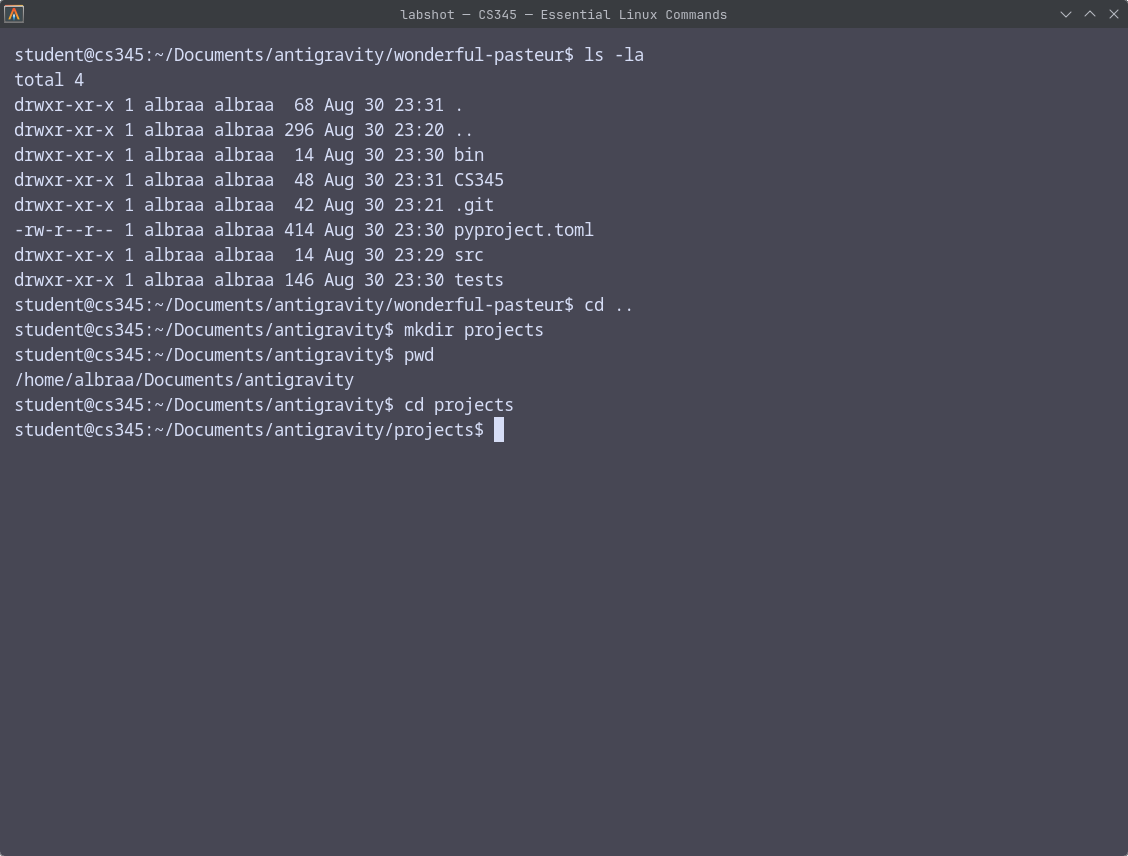
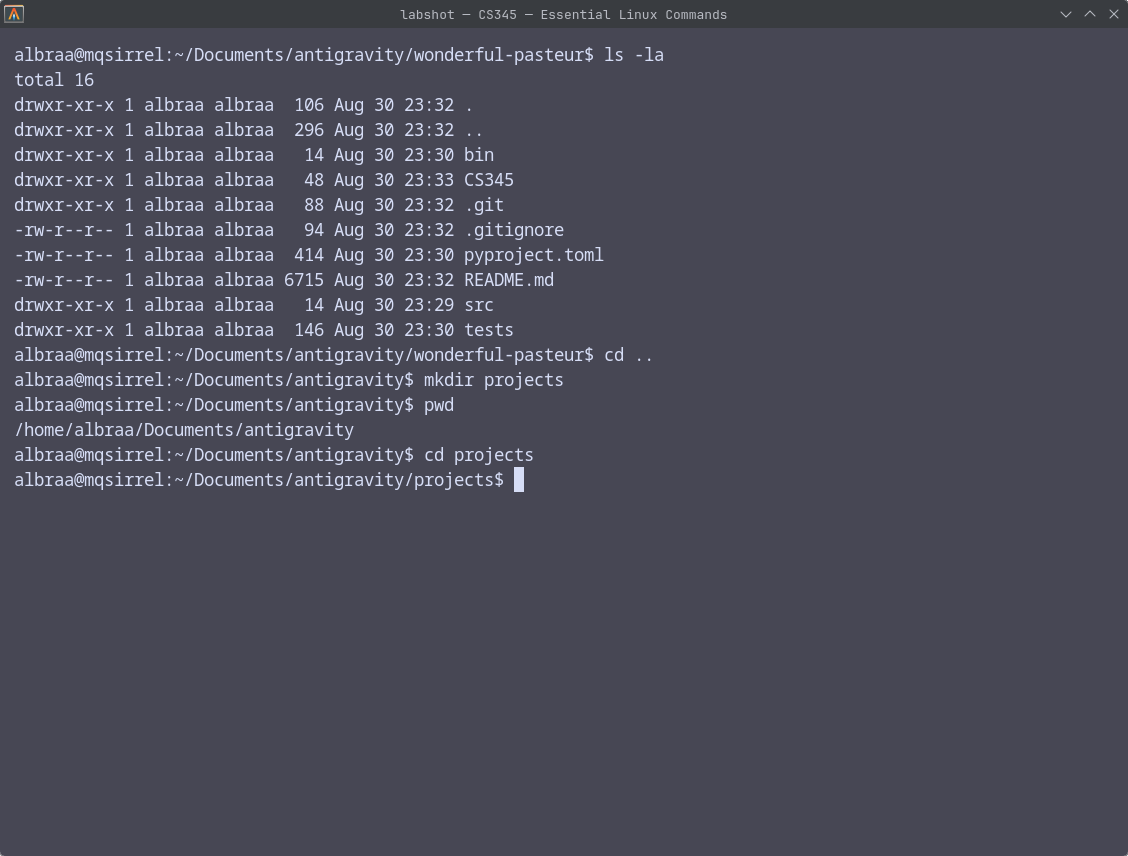
fix: restore natural user prompt (albraa@<hostname>) in terminal recordings

Changed region(s): [[0.0, 0.0607, 0.5895, 0.5771]]

diff --git a/src/labshot/terminal.py b/src/labshot/terminal.py
@@ -87,6 +87,7 @@ style = {{ shape = "Block", blinking = "Off" }}
         env["LABSHOT_SOCK"] = str(sock_path)
         env["LABSHOT_FIFO"] = str(fifo_path)
         env["LABSHOT_TITLE"] = self.window_title
+        env["LABSHOT_PS1"] = self.config.prompt_template
 
         python_exec = shutil.which("python3") or "python3"
 
@@ -139,7 +140,6 @@ style = {{ shape = "Block", blinking = "Off" }}
 
     def activate_window(self) -> None:
         """Activate/raise the terminal window using compositor or window manager methods."""
-        # Method 1: KDE Plasma Wayland KWin Scripting via qdbus6
         if shutil.which("qdbus6"):
             kwin_js = f"""
             var windows = workspace.stackingOrder;
@@ -155,7 +155,7 @@ style = {{ shape = "Block", blinking = "Off" }}
             try:
                 with open(script_file, "w", encoding="utf-8") as f:
                     f.write(kwin_js)
-                load_res = subprocess.run(
+                subprocess.run(
                     ["qdbus6", "org.kde.KWin", "/Scripting", "org.kde.kwin.Scripting.loadDeclarativeScript", str(script_file), "labshot_focus"],
                     capture_output=True, text=True, timeout=2
                 )
@@ -166,7 +166,6 @@ style = {{ shape = "Block", blinking = "Off" }}
             except Exception:
                 pass
 
-        # Method 2: xdotool / wmctrl on X11 / XWayland
         if shutil.which("xdotool"):
             try:
                 subprocess.run(["xdotool", "search", "--name", "labshot", "windowactivate"], capture_output=True, timeout=2)

diff --git a/src/labshot/config.py b/src/labshot/config.py
@@ -40,7 +40,7 @@ class LabConfig:
     """General configuration for the lab recording session."""
     default_lab_name: str = "Essential Linux Commands"
     base_dir: Path = field(default_factory=lambda: Path.cwd() / "CS345")
-    prompt_template: str = r"student@cs345:\w$ "
+    prompt_template: str = r"\u@\h:\w\$ "
     default_timeout_seconds: float = 30.0
     post_command_delay: float = 0.12  # Wait for GPU/compositor render buffer
     terminal_config: TerminalConfig = field(default_factory=TerminalConfig)

diff --git a/src/labshot/worker.py b/src/labshot/worker.py
@@ -53,7 +53,7 @@ def main():
 
     env = os.environ.copy()
     env["PROMPT_COMMAND"] = f"echo $? $PWD > {fifo_path}"
-    env["PS1"] = r"student@cs345:\w$ "
+    env["PS1"] = os.environ.get("LABSHOT_PS1", r"\u@\h:\w\$ ")
     env["TERM"] = "xterm-256color"
 
     bash_proc = subprocess.Popen(
